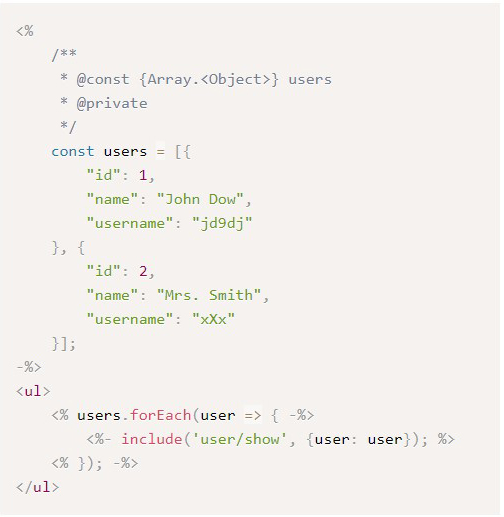
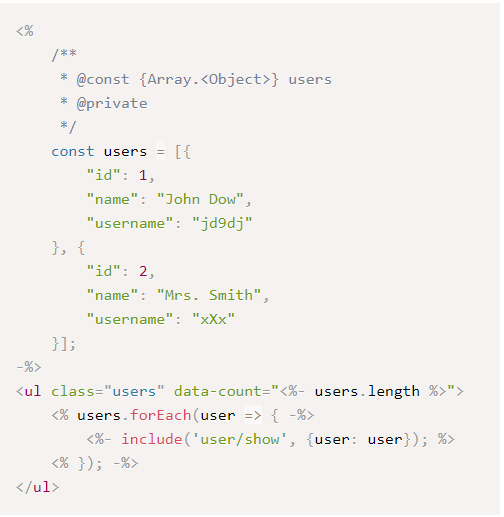
upd demo

diff --git a/example.html b/example.html
@@ -36,7 +36,7 @@
                     "username": "xXx"
                 }];
             -%>
-            &lt;ul>
+            &lt;ul class="users" data-count="<%- users.length %>">
                 <% users.forEach(user => { -%>
                     <%- include('user/show', {user: user}); %>
                 <% }); -%>
@@ -51,13 +51,13 @@
                 let htmlString = '&lt;h2>Demo 2&lt;/h2>';
                 console.log(htmlString);
             -%>
-            &lt;div>
+            &lt;div class="html">
                 <%- htmlString.toLowerCase() %>
             &lt;/div>
-            &lt;pre>
+            &lt;pre class="code">
                 <%= htmlString.toLowerCase() %>
             &lt;/pre>
-            &lt;div>
+            &lt;div class="comment">
                 <%# htmlString.toLowerCase() %>
             &lt;/div>
             </code></pre>
